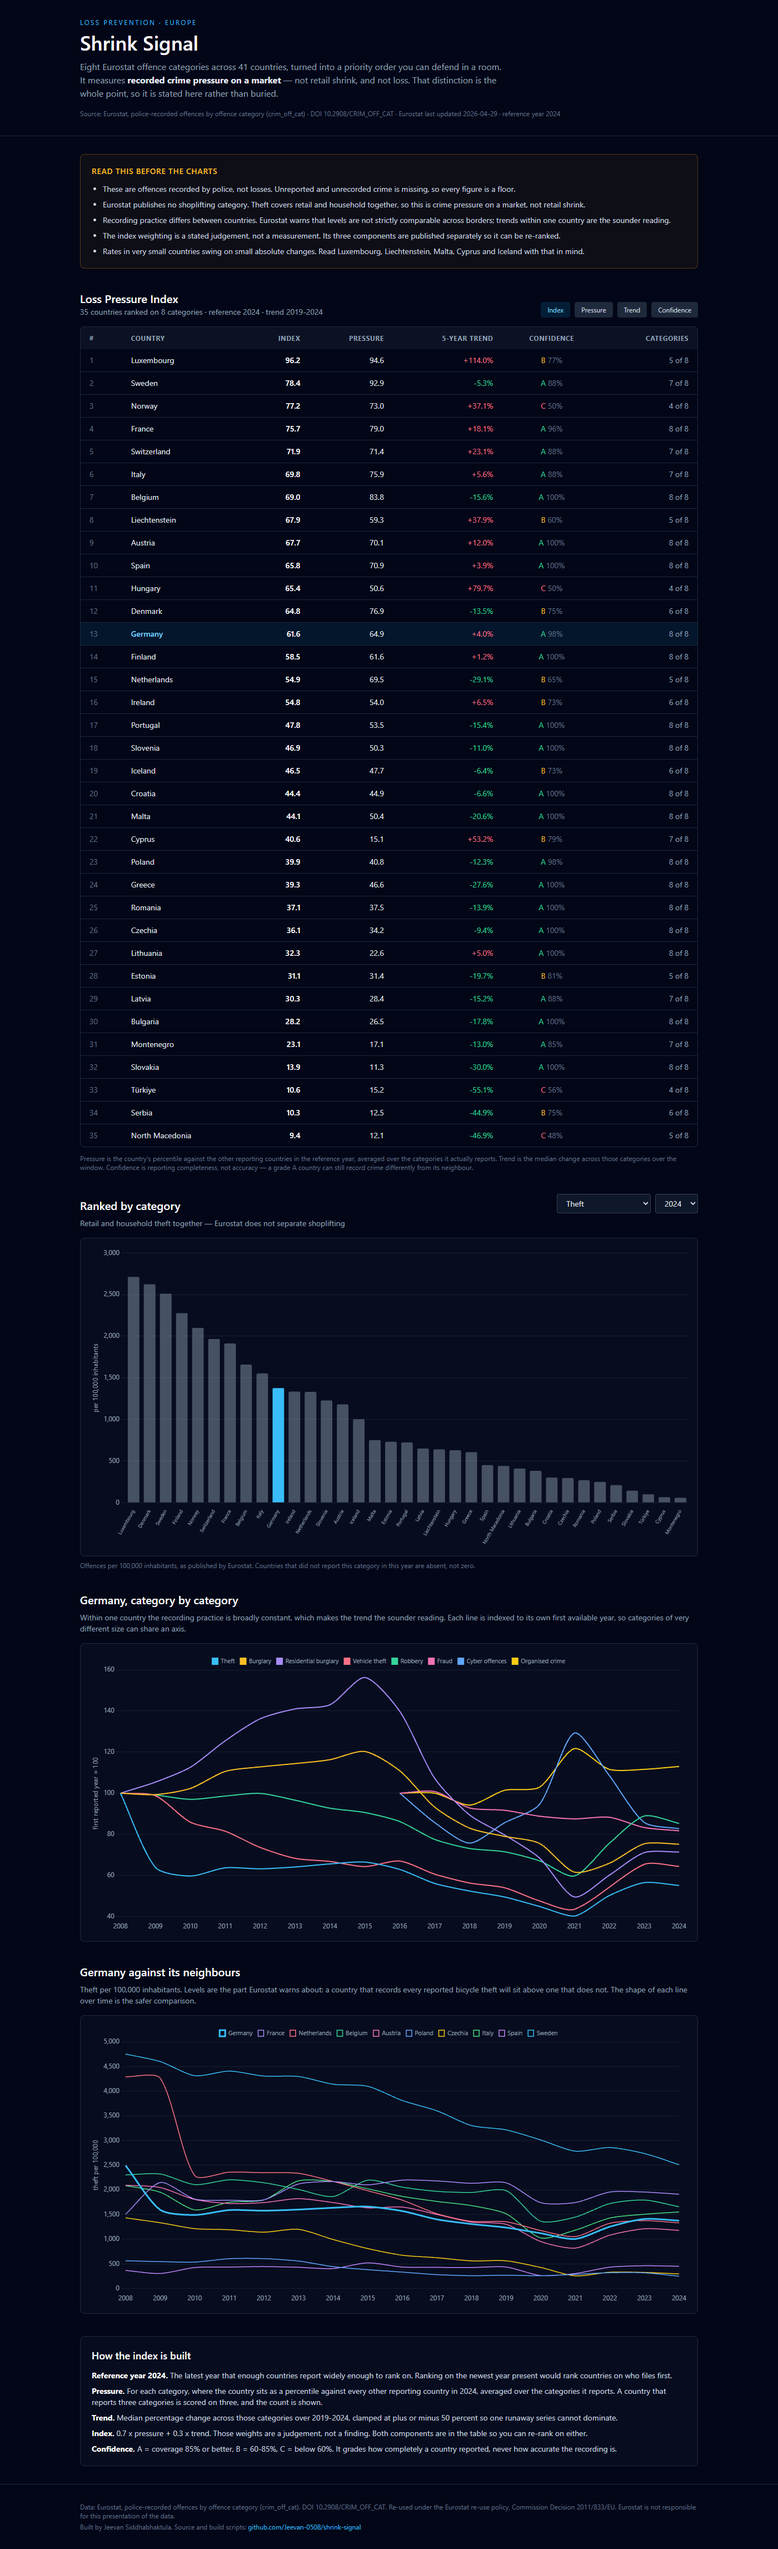
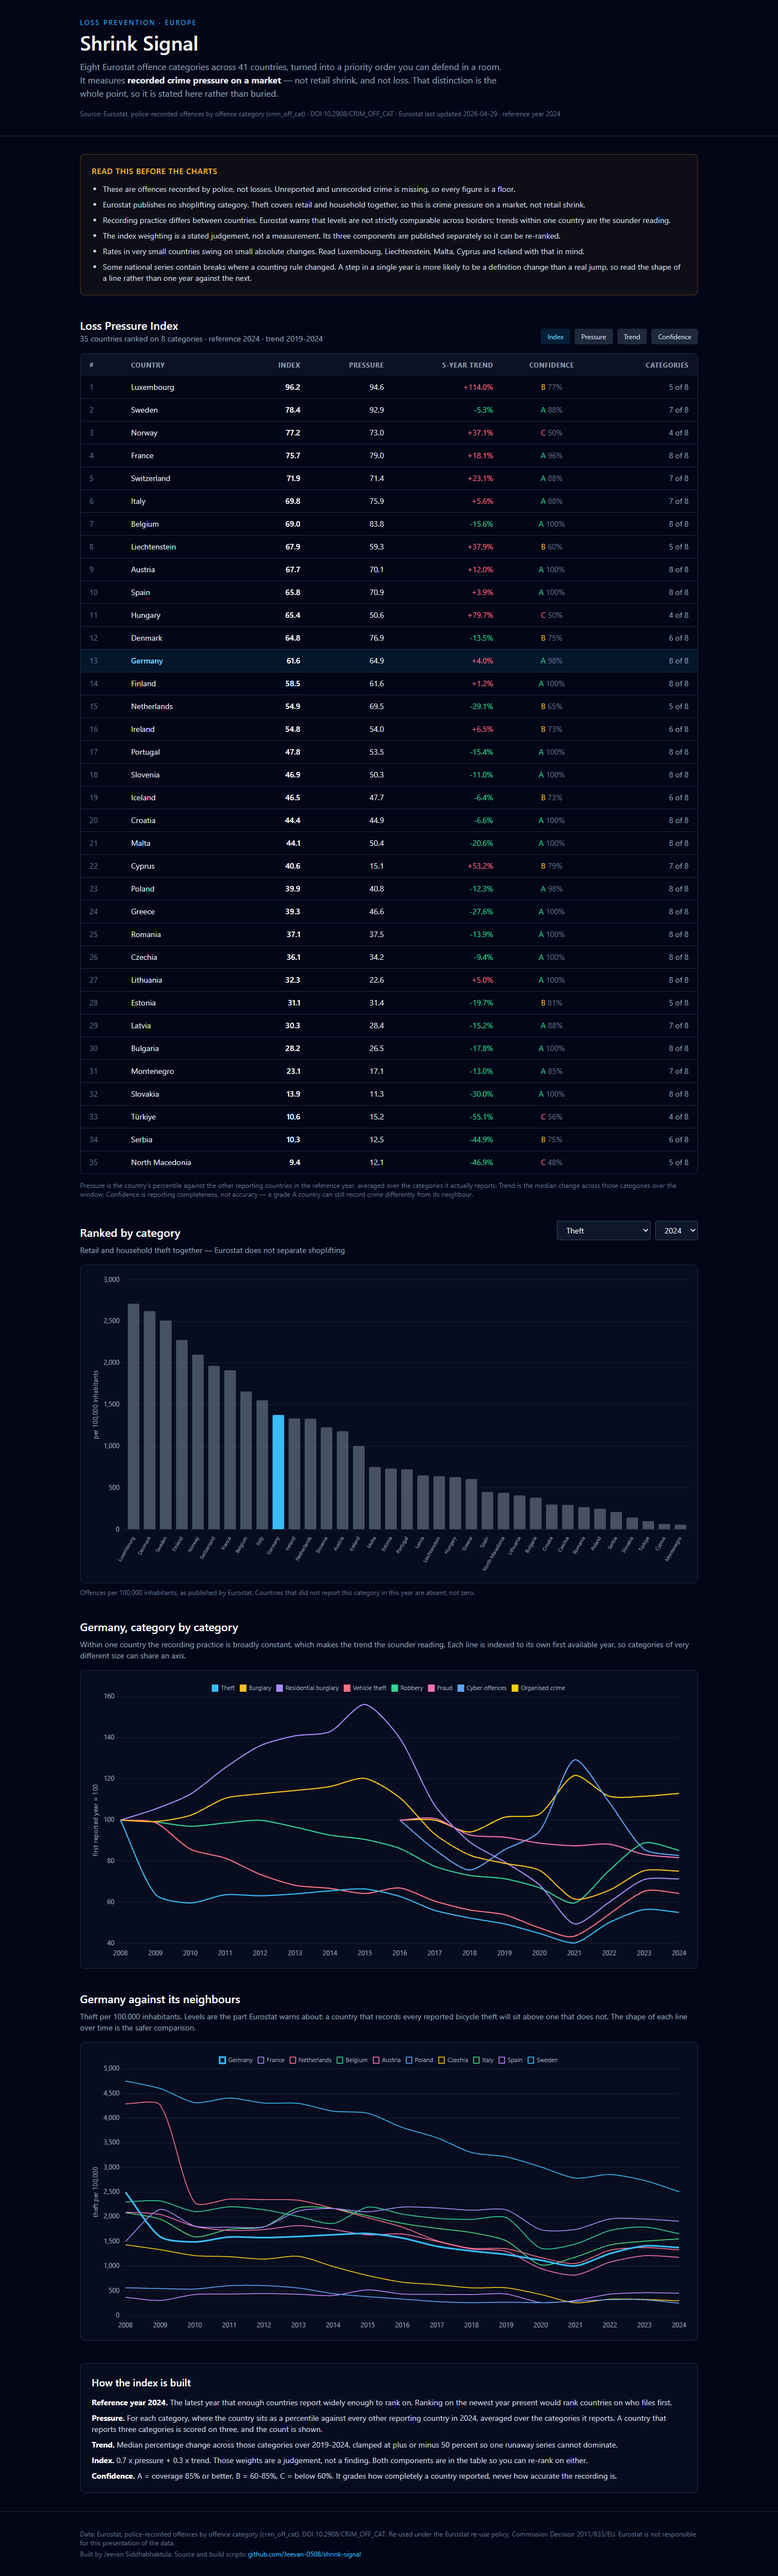
Refresh the dataset from Eurostat monthly, commit only when it moves
The page was a static build, so it would have sat on 2024 forever. A monthly
Action now re-pulls the API, rebuilds the dataset and the index, runs the 19-check
verifier before anything is allowed to publish, and commits only if
data/crime.json actually changed. A quiet month leaves no commit.

The reference year is derived from the data, not hard-coded, so the day Eurostat
adds 2025 the ranking moves to it on its own.

Documented why 2024 is currently the latest: Eurostat runs about eighteen months
behind and the 2026-04-29 release is what added 2024. Asked directly for 2025 the
API returns a valid response with zero observations, so the year does not exist
yet. German 2025 figures do exist in the BKA statistics and are deliberately not
spliced in, because BKA counts to German rules and Eurostat harmonises across
borders.

diff --git a/README.md b/README.md
@@ -81,6 +81,26 @@ recorded theft rose from 1,235 to 1,377 per 100,000 between 2019 and 2024, while
 recorded fraud fell from 1,003 to 894. A single national number would have hidden
 both, which is why the per-category view exists.
 
+## Why the latest year is 2024, and how it stays current
+
+Eurostat publishes this dataset about once a year and runs roughly a year and a
+half behind: the release of **2026-04-29** is the one that added **2024**. Asked
+directly for 2025, the API returns a valid response with **zero observations** —
+the year does not exist yet rather than being missing from this build. On that
+cadence 2025 should appear in spring 2027.
+
+For Germany alone, national 2025 figures do exist earlier, in the BKA's
+Polizeiliche Kriminalstatistik. They are deliberately not mixed in here: BKA
+counts to German rules and Eurostat harmonises across borders, so splicing them
+into one line would put a definition change in the middle of a trend and invite
+exactly the misreading the caveats warn about.
+
+A monthly GitHub Action (`.github/workflows/refresh.yml`) re-pulls the API,
+rebuilds the dataset, runs the verifier, and **commits only if the numbers
+actually moved**. So a quiet month leaves no commit, and the day Eurostat adds
+2025 the page picks it up on its own — including a new reference year, since that
+is derived from the data rather than hard-coded.
+
 ## Reproducing it
 
 ```bash
